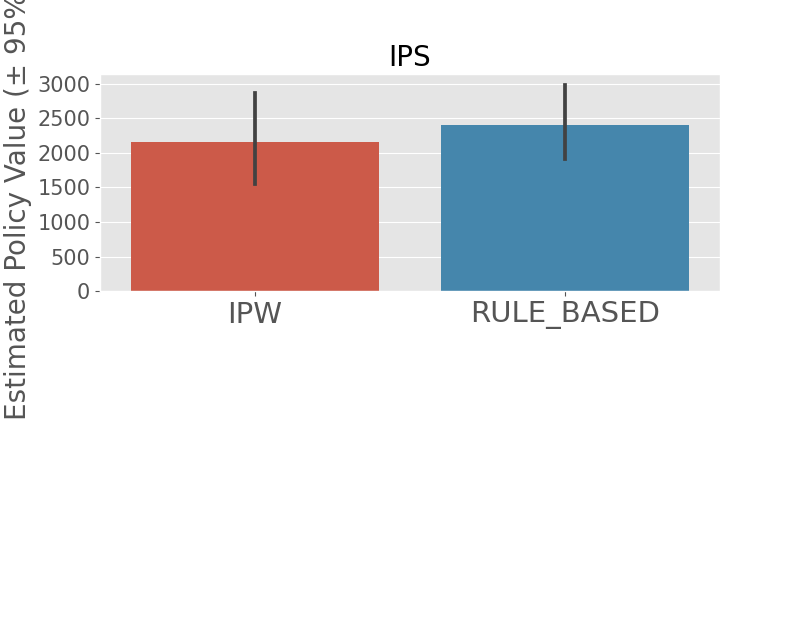
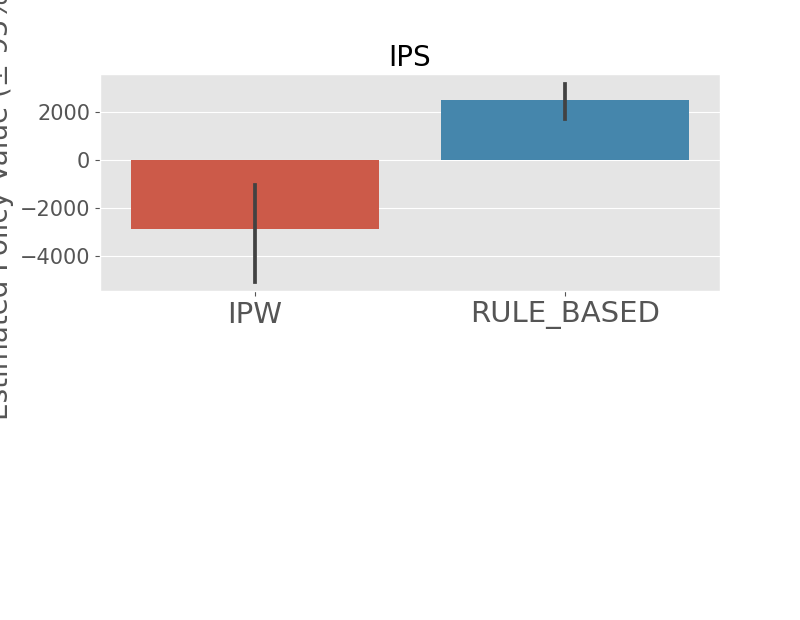
binary reward

Changed region(s): [[0.1562, 0.1532, 0.875, 0.4903], [0.0, 0.0, 0.125, 0.6742], [0.0938, 0.4597, 0.125, 0.4903]]

diff --git a/pokemon_ml_design/synthesize_data.py b/pokemon_ml_design/synthesize_data.py
@@ -66,6 +66,7 @@ def _update_context(data: BanditFeedback) -> BanditFeedback:
 def _update_reward(data: BanditFeedback) -> BanditFeedback:
     rewards = data['context'][:, 2]
     costs = np.array([ACTIONS[action_id].cost for action_id in data['action'].flatten()])
+    data['binary_reward'] = data['reward']
     data['reward'] = rewards * data['reward'] - costs
     return data
 

diff --git a/pokemon_ml_design/model.py b/pokemon_ml_design/model.py
@@ -42,6 +42,7 @@ class IPWModel(BaseModel):
         self._model.fit(
             context=scaled_context,
             action=data["action"],
+            # reward=data["binary_reward"],
             reward=data["reward"],
             pscore=data["pscore"],
         )
